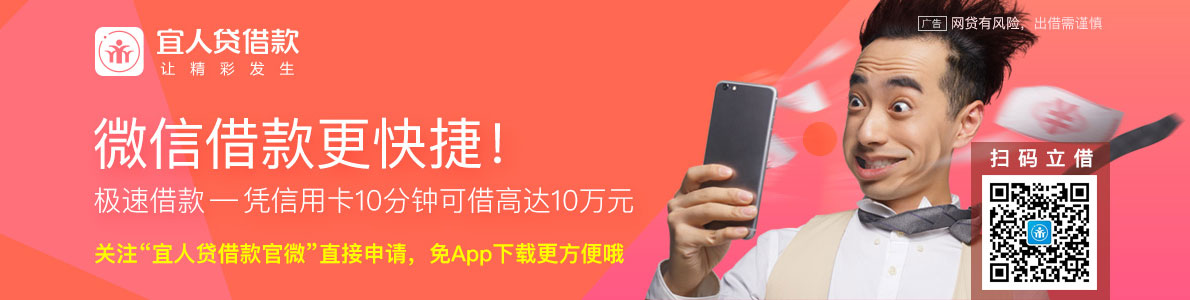
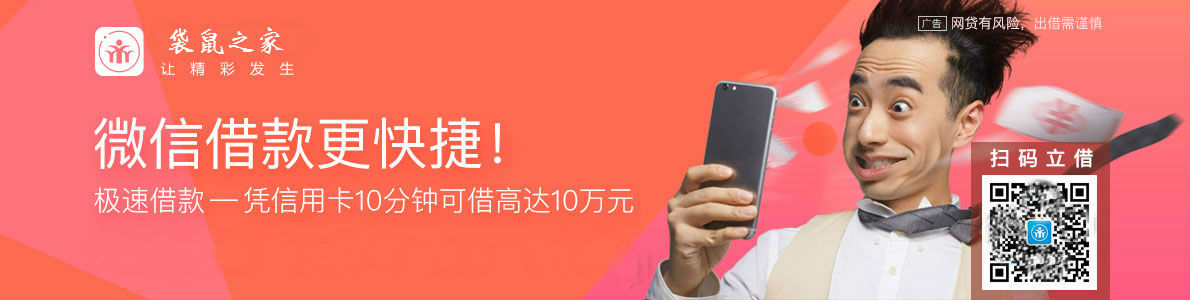
开始做会员1

Changed region(s): [[0.0622, 0.81, 0.5286, 0.9], [0.8084, 0.6, 0.9328, 0.96], [0.1244, 0.09, 0.2487, 0.18]]

diff --git a/src/main/resources/templates/web/index.html b/src/main/resources/templates/web/index.html
@@ -13,7 +13,7 @@
 <!--head-->
 <div class="head x_start_end bb bgf44">
 	<div class="left"></div>
-    <div class="center">贷鼠之家</div>
+    <div class="center">袋鼠之家</div>
     <div class="right"><i class="m_icon notice pos_re on"><em></em></i></div>
 </div>
 <!--banner-->
@@ -70,49 +70,49 @@ TouchSlide({ slideCell:"#in_focus",titCell:".hd ul", mainCell:".bd ul", autoPlay
 	<div class="pro_li">
     	<a href="#">
         	<span class="icon" style="background:#0093dc;"><img src="/static/web/images/yirendai.png" /></span>
-            <p>宜人贷</p>
+            <p>袋鼠之家</p>
         </a>
     </div>
     <div class="pro_li">
     	<a href="#">
         	<span class="icon" style="background:#0093dc;"><img src="/static/web/images/yirendai.png" /></span>
-            <p>宜人贷</p>
+            <p>袋鼠之家</p>
         </a>
     </div>
     <div class="pro_li">
     	<a href="#">
         	<span class="icon" style="background:#0093dc;"><img src="/static/web/images/yirendai.png" /></span>
-            <p>宜人贷</p>
+            <p>袋鼠之家</p>
         </a>
     </div>
     <div class="pro_li">
     	<a href="#">
         	<span class="icon" style="background:#0093dc;"><img src="/static/web/images/yirendai.png" /></span>
-            <p>宜人贷</p>
+            <p>袋鼠之家</p>
         </a>
     </div>
     <div class="pro_li">
     	<a href="#">
         	<span class="icon" style="background:#0093dc;"><img src="/static/web/images/yirendai.png" /></span>
-            <p>宜人贷</p>
+            <p>袋鼠之家</p>
         </a>
     </div>
     <div class="pro_li">
     	<a href="#">
         	<span class="icon" style="background:#0093dc;"><img src="/static/web/images/yirendai.png" /></span>
-            <p>宜人贷</p>
+            <p>袋鼠之家</p>
         </a>
     </div>
     <div class="pro_li">
     	<a href="#">
         	<span class="icon" style="background:#0093dc;"><img src="/static/web/images/yirendai.png" /></span>
-            <p>宜人贷</p>
+            <p>袋鼠之家</p>
         </a>
     </div>
     <div class="pro_li">
     	<a href="#">
         	<span class="icon" style="background:#0093dc;"><img src="/static/web/images/yirendai.png" /></span>
-            <p>宜人贷</p>
+            <p>袋鼠之家</p>
         </a>
     </div>
     

diff --git a/src/main/java/com/bootdo/web/memberController.java b/src/main/java/com/bootdo/web/memberController.java
@@ -1,0 +1,40 @@
+/**
+ * 会员中心controller
+ */
+package com.bootdo.web;
+import java.util.List;
+import java.util.Map;
+
+import javax.servlet.http.HttpSession;
+
+import org.apache.commons.lang3.StringUtils;
+import org.apache.shiro.SecurityUtils;
+import org.apache.shiro.authc.AuthenticationException;
+import org.apache.shiro.authc.UsernamePasswordToken;
+import org.apache.shiro.subject.Subject;
+import org.slf4j.Logger;
+import org.slf4j.LoggerFactory;
+import org.springframework.beans.factory.annotation.Autowired;
+import org.springframework.stereotype.Controller;
+import org.springframework.ui.Model;
+import org.springframework.web.bind.annotation.GetMapping;
+import org.springframework.web.bind.annotation.PostMapping;
+import org.springframework.web.bind.annotation.RequestMapping;
+import org.springframework.web.bind.annotation.RequestParam;
+import org.springframework.web.bind.annotation.ResponseBody;
+
+import com.bootdo.common.controller.BaseController;
+import com.bootdo.common.utils.MD5Utils;
+import com.bootdo.common.utils.PageUtils;
+import com.bootdo.common.utils.Query;
+import com.bootdo.common.utils.R;
+import com.bootdo.utils.CodeKit;
+import com.bootdo.web.service.ArticleService;
+import com.bootdo.web.service.ColumnService;
+
+@Controller
+@RequestMapping("/member")
+public class memberController extends BaseController {
+	private final Logger logger = LoggerFactory.getLogger(this.getClass());
+	
+}
